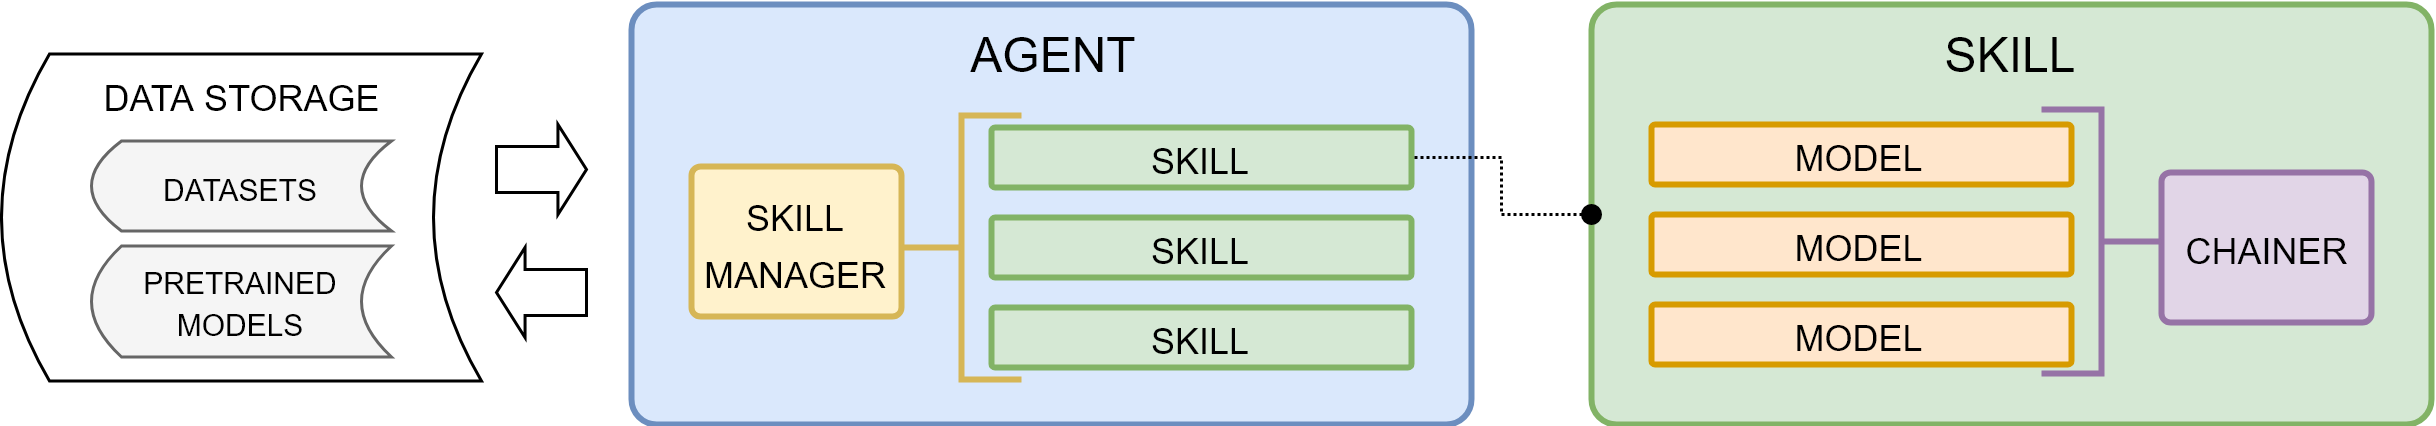
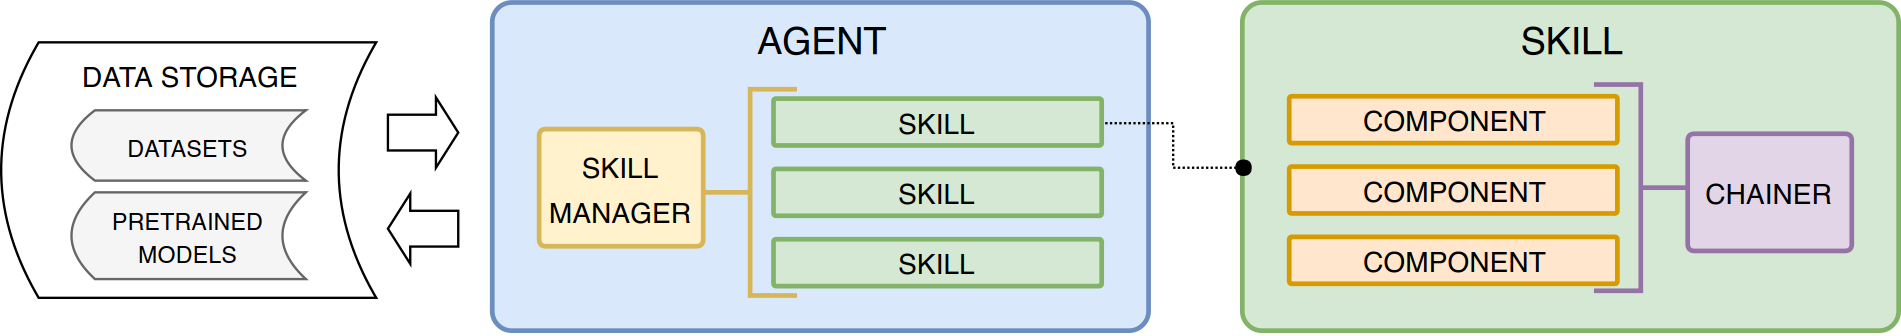
Release 0.0.6b (#311)
* Add files via upload

* Update README.md

`Model` - > `Component`

* fix: indent in 04 tutorial

* docs: add info on installation of config requirements

* feat: new version number

* feat: download en for spacy if spacy is required

* feat: download en for spacy if spacy is required

* feat: version 0.0.6b

diff --git a/utils/pip_wrapper/pip_wrapper.py b/utils/pip_wrapper/pip_wrapper.py
@@ -12,6 +12,7 @@ from deeppavlov.core.common.log import get_logger
 log = get_logger(__name__)
 
 _tf_re = re.compile(r'\s*tensorflow\s*([<=>;]|$)')
+_spacy_re = re.compile(r'\s*spacy\s*([<=>;]|$)')
 
 
 def install(*packages):
@@ -20,9 +21,12 @@ def install(*packages):
                                                              env=os.environ.copy()):
         log.warn('found tensorflow-gpu installed, so upgrading it instead of tensorflow')
         packages = [_tf_re.sub(r'tensorflow-gpu\1', package) for package in packages]
-    return subprocess.check_call([sys.executable, '-m', 'pip', 'install',
-                                  *[re.sub(r'\s', '', package) for package in packages]],
-                                 env=os.environ.copy())
+    result = subprocess.check_call([sys.executable, '-m', 'pip', 'install',
+                                   *[re.sub(r'\s', '', package) for package in packages]],
+                                   env=os.environ.copy())
+    if any(_spacy_re.match(package) for package in packages):
+        subprocess.check_call([sys.executable, '-m', 'spacy', 'download', 'en'], env=os.environ.copy())
+    return result
 
 
 def install_from_config(config: [str, Path, dict]):

diff --git a/deeppavlov/package_meta.py b/deeppavlov/package_meta.py
@@ -1,2 +1,2 @@
-__version__ = '0.0.5.3'
+__version__ = '0.0.6b'
 __author__ = 'Neural Networks and Deep Learning lab, MIPT'

diff --git a/README.md b/README.md
@@ -1,7 +1,9 @@
 [![License Apache 2.0](https://img.shields.io/badge/license-Apache%202.0-blue.svg)](https://github.com/deepmipt/DeepPavlov/blob/master/LICENSE)
 ![Python 3.6](https://img.shields.io/badge/python-3.6-green.svg)
 
-_We are still in a really early Alpha release._
+_We are still in a really early Alpha release._  
+__In version 0.0.6 everything from package `deeppavlov.skills` except `deeppavlov.skills.pattern_matching_skill` was moved to `deeppavlov.models` so your imports might break__  
+
 
 DeepPavlov is an open-source conversational AI library built on [TensorFlow](https://www.tensorflow.org/) and [Keras](https://keras.io/). It is designed for
  * development of production ready chat-bots and complex conversational systems,
@@ -52,13 +54,9 @@ print(HelloBot(['Hello!', 'Boo...', 'Bye.']))
    git clone https://github.com/deepmipt/DeepPavlov.git
    cd DeepPavlov
    ```
-4. Install the requirements:
+4. Install basic requirements:
     ```
     python setup.py develop
-    ```
-5. Install `spacy` dependencies:
-    ```
-    python -m spacy download en
     ```
 
 # Demo 
@@ -80,16 +78,16 @@ Our goal is to enable AI-application developers and researchers with:
 ## Key Concepts
  * `Agent` is a conversational agent communicating with users in natural language (text).
  * `Skill` fulfills user’s goal in some domain. Typically, this is accomplished by presenting information or completing transaction (e.g. answer question by FAQ, booking tickets etc.). However, for some tasks a success of interaction is defined as continuous engagement (e.g. chit-chat).
- * `Model` is a reusable functional component of `Skill`.
+ * `Component` is a reusable functional component of `Skill`.
    * `Rule-based Models` cannot be trained.
    * `Machine Learning Models` can be trained only stand alone.
    * `Deep Learning Models` can be trained independently and in an end-to-end mode being joined in a chain.
  * `Skill Manager` performs selection of the `Skill` to generate response.
  * ` Chainer` builds an agent/component pipeline from heterogeneous components (rule-based/ml/dl). It allows to train and infer models in a pipeline as a whole.
 
-The smallest building block of the library is `Model`. `Model` stands for any kind of function in an NLP pipeline. It can be implemented as a neural network, a non-neural ML model or a rule-based system. Besides that, `Model` can have nested structure, i.e. a `Model` can include other `Model`'(s). 
+The smallest building block of the library is `Component`. `Component` stands for any kind of function in an NLP pipeline. It can be implemented as a neural network, a non-neural ML model or a rule-based system. Besides that, `Component` can have nested structure, i.e. a `Component` can include other `Component`'(s). 
 
-`Model`s can be joined into a `Skill`. `Skill` solves a larger NLP task compared to `Model`. However, in terms of implementation `Skill`s are not different from `Model`s. The only restriction of `Skill`s is that their input and output should both be strings. Therefore, `Skill`s are usually associated with dialogue tasks. 
+`Component`s can be joined into a `Skill`. `Skill` solves a larger NLP task compared to `Component`. However, in terms of implementation `Skill`s are not different from `Component`s. The only restriction of `Skill`s is that their input and output should both be strings. Therefore, `Skill`s are usually associated with dialogue tasks. 
 
 `Agent` is supposed to be a multi-purpose dialogue system that comprises several `Skill`s and can switch between them. It can be a dialogue system that contains a goal-oriented and chatbot skills and chooses which one to use for generating the answer depending on user input.
 
@@ -99,7 +97,13 @@ DeepPavlov is built on top of machine learning frameworks [TensorFlow](https://w
 
 # Quick start
 
-To use our pre-trained models, you should first download them:
+To use our pre-trained models, you should first install their requirements:
+```
+python -m deeppavlov install <path_to_config>
+```
+
+  
+Then download the models and data for them:
 ```
 python -m deeppavlov download <path_to_config>
 ```
@@ -441,4 +445,3 @@ DeepPavlov is built and maintained by [Neural Networks and Deep Learning Lab](ht
 <p align="center">
 <img src="https://ipavlov.ai/img/ipavlov_footer.png" width="50%" height="50%"/>
 </p>
-
